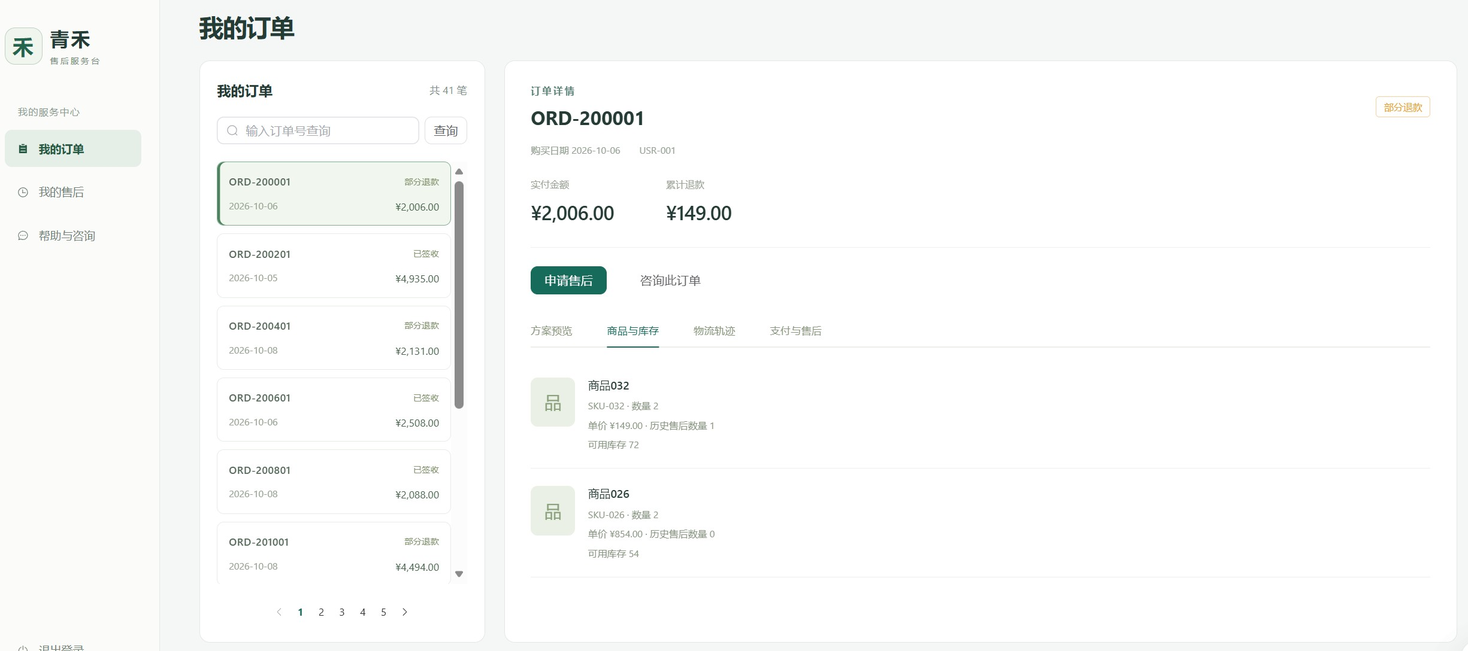
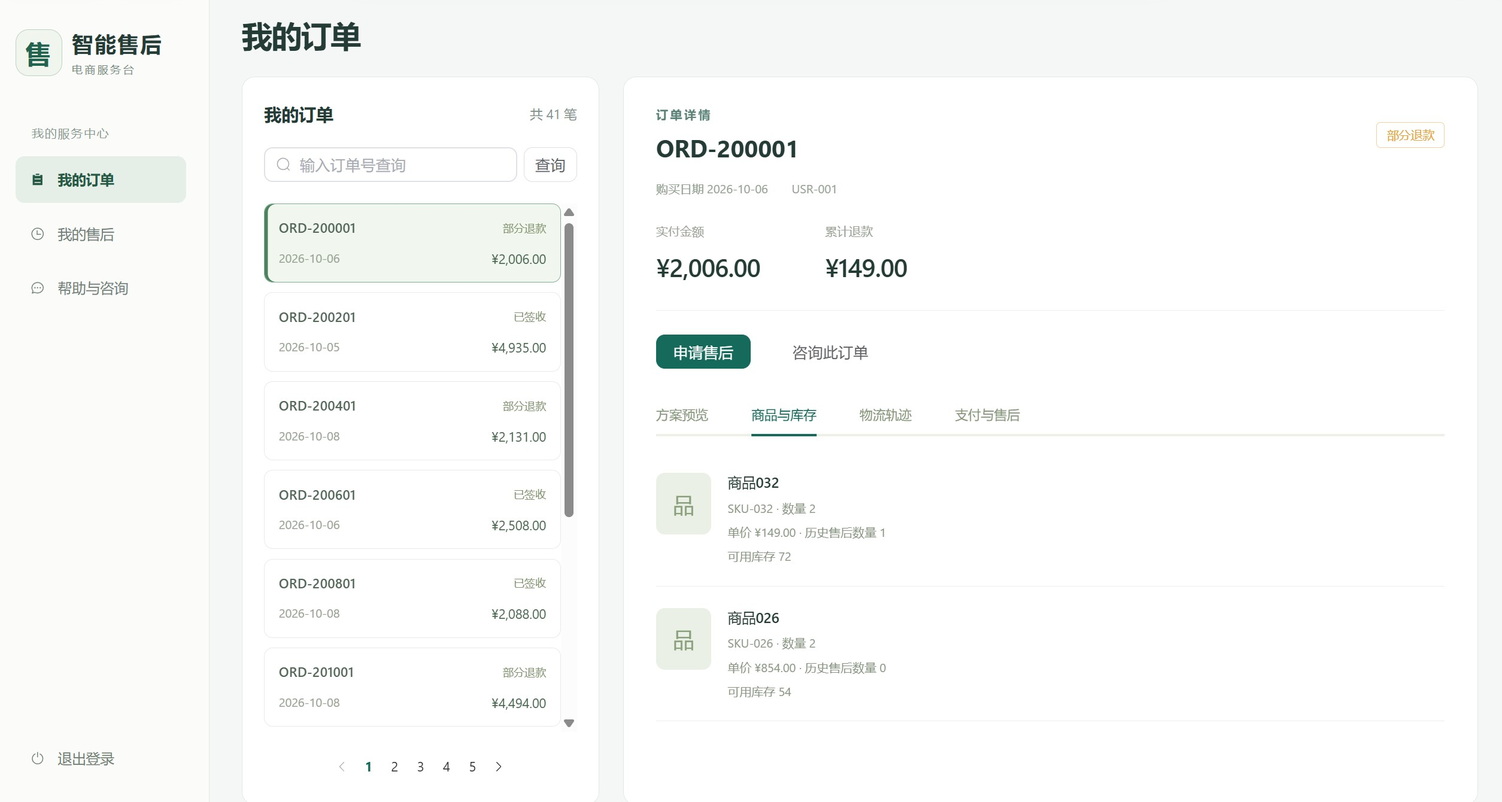
Rename ecommerce AI after-sales service desk and refresh screenshots

diff --git a/frontend/src/style.css b/frontend/src/style.css
@@ -1,4 +1,4 @@
-:root{font-family:"Segoe UI","Microsoft YaHei",sans-serif;color:#243b36;background:#f5f7f6;font-synthesis:none;font-weight:400;--el-color-primary:#176b5b;--el-color-primary-light-3:#58998c;--el-color-primary-light-5:#91beb3;--el-color-primary-light-7:#c1dad3;--el-color-primary-light-9:#edf5f2;--el-color-primary-dark-2:#105346;--el-border-radius-base:8px;--el-font-family:"Segoe UI","Microsoft YaHei",sans-serif}*{box-sizing:border-box}body{margin:0}button,input,textarea{font:inherit}button{cursor:pointer}h1,h2,h3,p{margin:0}h1{font-size:28px;font-weight:650;letter-spacing:-.7px}h2{font-size:28px}h3{font-size:16px;font-weight:650}.muted{color:#82918b}.small{font-size:12px}.eyebrow{font-size:11px;font-weight:600;letter-spacing:2px;color:#5b8277;margin-bottom:9px}.brand{display:flex;align-items:center;gap:12px;font-size:23px;font-weight:650;letter-spacing:2px}.brand-mark{display:grid;place-items:center;width:43px;height:43px;border:1px solid #bed1c5;border-radius:12px;color:#23644f;font-size:24px;background:#f0f5ed}.brand-sub{display:block;letter-spacing:1.8px;font-size:10px;font-weight:400;color:#778d80;margin-top:4px}.login-page{min-height:100vh;display:grid;grid-template-columns:48% 52%}.login-story{padding:54px 65px 30px;background:#184f43;color:#f4f7ed;display:flex;flex-direction:column;position:relative;overflow:hidden}.login-story:after{content:"";position:absolute;width:550px;height:550px;border:1px solid #ffffff12;border-radius:50%;right:-245px;bottom:-245px;box-shadow:0 0 0 70px #ffffff03,0 0 0 140px #ffffff03}.login-story .brand-sub{color:#c3d4bf}.login-story .brand-mark{background:#ffffff10;color:#e8ecd1;border-color:#ffffff40}.story-body{margin:auto 0;z-index:1;padding:70px 0}.story-body h1{font-size:46px;line-height:1.5;letter-spacing:1px;font-weight:500;margin:24px 0}.story-body p{color:#b9cec1;line-height:2.1;font-size:15px}.light{color:#bdcbb1}.story-lines{display:flex;gap:26px;font-size:12px;color:#d8dfc4;margin-top:44px}.story-foot{font-size:11px;color:#a2bba9;letter-spacing:1px}.login-form-area{display:grid;place-items:center;padding:45px;background:#fafbf9}.login-card{width:100%;max-width:360px}.login-card h2{margin-bottom:12px}.login-card>p{font-size:14px;margin-bottom:35px}.login-card label{display:block;font-size:13px;font-weight:600;margin:24px 0 10px}.login-card .el-input__wrapper{height:47px}.login-submit{width:100%;margin:30px 0 27px;height:47px!important;justify-content:space-between}.login-submit .el-icon{margin-left:100px}.login-card .error-text{margin:16px 0 0}.login-card>p.small{font-size:11px;line-height:1.8}.error-text{color:#b9473e}.workspace-shell{display:flex;min-height:100vh}.sidebar{width:200px;flex:none;background:#fbfcfa;border-right:1px solid #e2e9e3;padding:33px 21px;display:flex;flex-direction:column;position:fixed;inset:0 auto 0 0;z-index:10}.sidebar .brand{font-size:22px;gap:9px}.workspace-label{margin:45px 15px 14px;font-size:11px;letter-spacing:1px;color:#8b9b91}.sidebar nav{display:grid;gap:7px}.sidebar nav button,.logout{display:flex;align-items:center;gap:12px;text-align:left;padding:13px 14px;background:none;border:0;color:#708277;font-size:13px;border-radius:8px}.sidebar nav button.active{background:#e6efe7;color:#265a45;font-weight:600}.sidebar nav button:hover{background:#edf2ec}.logout{padding-top:16px;color:#718273}.workspace-main{margin-left:200px;padding:0 30px 20px;flex:1;min-width:0}.topbar{height:75px;border-bottom:1px solid #e3e9e4;display:flex;align-items:center;justify-content:space-between;font-size:12px;color:#809086}.topbar .eyebrow{margin:0;letter-spacing:.7px}.topbar-divider{margin:0 12px;color:#bcc7bc}.identity{display:flex;gap:14px;align-items:center;color:#53685c}.identity-avatar{display:grid;place-items:center;width:33px;height:33px;border-radius:50%;background:#e4ece1;color:#607855;font-size:12px}.page-heading{display:flex;justify-content:space-between;align-items:center;margin:32px 0 26px;gap:15px}.page-heading p{margin-top:12px;font-size:13px;color:#7d8f83;line-height:1.8}.summary-grid{display:grid;grid-template-columns:1fr 1fr 1.45fr;gap:18px;margin-bottom:24px}.summary-card{background:#fff;padding:22px 25px;border:1px solid #e3e9e2;border-radius:12px}.summary-card>span{font-size:12px;color:#819085}.summary-card strong{display:block;font-size:30px;margin:13px 0 9px;font-weight:600;letter-spacing:-1px}.summary-card strong small{font-size:11px;margin-left:7px;color:#829081;font-weight:400;letter-spacing:0}.summary-card p,.summary-card button{font-size:11px;color:#899580}.summary-card button{border:0;background:none;padding:0;display:flex;align-items:center;gap:8px}.summary-card.accent{background:#eaf0e5;border-color:#d9e3d1}.summary-card .text-stat{font-size:19px;letter-spacing:0;margin:23px 0 15px;color:#3f6246}.panel{background:#fff;border:1px solid #e2e9e3;border-radius:12px;min-width:0}.panel-heading{display:flex;align-items:center;justify-content:space-between;gap:12px}.panel-heading p{margin-top:8px}.order-workbench{display:grid;grid-template-columns:330px minmax(0,1fr);gap:22px;min-height:590px}.order-list{padding:23px 20px;display:flex;flex-direction:column;gap:20px}.search-form{display:flex;gap:6px}.search-form .el-button{padding:8px 10px}.order-cards{display:grid;gap:9px;max-height:488px;overflow:auto}.order-card{border:1px solid #e7ece7;background:#fff;border-radius:8px;text-align:left;padding:14px 13px;color:#526757;width:100%;transition:.15s}.order-card.selected{border-color:#83ac95;background:#f1f6ef;box-shadow:inset 3px 0 #4c825d}.order-card>div{display:flex;align-items:center;justify-content:space-between;gap:6px}.order-card strong{font-size:12px;letter-spacing:.3px;font-weight:600}.order-status{font-size:10px;color:#82936e}.order-card p{font-size:11px;color:#97a292;margin-top:13px;display:flex;justify-content:space-between}.order-card p span{color:#47644d;font-size:12px}.order-card>span{display:block;margin-top:8px}.order-list .el-pagination{justify-content:center;margin-top:auto}.detail-panel{padding:27px 30px}.detail-panel h3{font-size:22px}.order-meta{display:flex;gap:22px;font-size:11px;color:#95a193;margin-top:16px;flex-wrap:wrap}.amount-row{display:flex;gap:60px;padding:25px 0;border-bottom:1px solid #edf0eb;margin-bottom:20px}.amount-row span{display:block;font-size:11px;color:#9ba496;margin-bottom:10px}.amount-row strong{font-size:23px;font-weight:500;letter-spacing:-.5px}.consult-button{margin-bottom:18px}.product-row{display:flex;gap:15px;padding:20px 0;border-bottom:1px solid #edf0ea}.product-avatar{width:51px;height:57px;background:#eaf0e6;border-radius:8px;display:grid;place-items:center;color:#8aa07b;font-size:20px;flex:none}.product-info{display:grid;gap:8px}.product-info strong{font-size:13px;font-weight:500}.product-info span{font-size:11px;color:#899681}.logistics-info{display:grid;gap:10px;font-size:12px;margin:20px 0 30px;color:#809276}.record-row{display:grid;gap:10px;padding:17px 0;font-size:12px;border-bottom:1px solid #edf0ea}.record-row strong{font-weight:500}.record-row span{font-size:11px;color:#8a9982}.workspace-footer{display:flex;justify-content:space-between;color:#a3aea0;font-size:10px;margin:25px 0 0}.chat-workbench{display:grid;grid-template-columns:230px minmax(360px,1fr) 310px;gap:17px;align-items:stretch;min-height:650px}.thread-list{padding:22px 15px;max-height:760px;overflow:auto}.new-consult{width:100%;margin:23px 0 18px;font-size:11px}.thread-card{display:block;width:100%;padding:17px 13px;text-align:left;background:transparent;border:0;border-bottom:1px solid #edf0e9;border-radius:7px;color:#5f755a}.thread-card.selected{background:#edf3e9}.thread-card strong{font-size:12px;font-weight:600}.thread-card p{font-size:10px;color:#879b7c;margin:9px 0;line-height:1.8}.thread-card>span{font-size:10px;color:#a0ad97}.chat-workbench>.detail-panel{padding:23px 20px}.chat-workbench .amount-row{gap:24px}.chat-workbench .amount-row strong{font-size:18px}.chat-workbench .order-meta{gap:8px}.chat-workbench .el-tabs__item{font-size:11px;padding:0 10px}.chat-panel{display:flex;flex-direction:column;height:760px;overflow:hidden}.chat-heading{display:flex;align-items:center;justify-content:space-between;padding:24px 23px 19px}.chat-heading h3{font-size:15px}.chat-boundary{padding:12px 23px;background:#f5f7ef;color:#91a080;font-size:10px;line-height:1.8;border-top:1px solid #edf0e5;border-bottom:1px solid #edf0e5}.message-list{overflow:auto;flex:1;padding:24px 22px;min-height:180px}.chat-welcome{text-align:center;padding:35px 0;color:#708365}.assistant-avatar{display:inline-grid;place-items:center;width:47px;height:47px;background:#eaf1e3;color:#66805a;border-radius:15px;font-size:24px;margin-bottom:25px}.chat-welcome h3{font-size:16px;margin-bottom:15px}.chat-welcome p{font-size:12px;color:#9aac91;line-height:2}.suggestion{padding:11px 14px;background:#f7f9f3;border:1px solid #e5ecdd;color:#6d865a;border-radius:7px;margin-top:26px;font-size:11px}.message{display:flex;gap:11px;margin-bottom:25px}.message-avatar{display:grid;place-items:center;width:28px;height:28px;background:#eaf0e3;color:#728665;border-radius:8px;font-size:12px;flex:none}.message.user .message-avatar{background:#e5edf0;color:#647e87}.message-body{flex:1;min-width:0}.message-name{display:flex;gap:14px;align-items:center;font-size:11px;color:#718369;margin-bottom:8px}.message-name span{font-size:9px;color:#adb6a7}.message-content{white-space:pre-wrap;overflow-wrap:anywhere;line-height:1.9;font-size:13px;background:#f5f7f2;padding:14px 16px;border-radius:0 9px 9px 9px}.message.user .message-content{background:#edf3ee}.interrupted{display:block;font-size:10px;color:#b47c57;margin-top:7px}.chat-status{padding:9px 23px;display:flex;justify-content:space-between;align-items:center;color:#8b9d7c;font-size:10px;gap:8px}.status-dot{display:inline-block;width:5px;height:5px;border-radius:50%;background:#8ba67b;margin-right:6px}.status-dot.busy{background:#caaf68;animation:pulse 1s infinite}.composer{margin:0 20px 20px;border:1px solid #dce7d4;border-radius:10px;padding:5px 10px 10px}.composer .el-textarea__inner{box-shadow:none!important;padding:10px 5px;font-size:12px;background:transparent}.composer-footer{display:flex;align-items:center;justify-content:space-between;gap:8px;margin-top:8px}.composer-footer>span{font-size:9px;color:#a4b398}.composer-footer .el-button{font-size:11px}.chat-error{margin:0 22px 10px;padding:10px;background:#fff4ec;font-size:11px;color:#ad7051;line-height:1.7}.choose-chat{grid-column:span 2;display:grid;place-items:center}.inventory-panel{padding:28px}.inventory-panel .panel-heading{margin-bottom:25px}.page-error{margin-bottom:20px;padding:15px;background:#fff3ed;color:#b07953;border-radius:8px;font-size:12px}.empty-state{padding:30px}.el-tag{font-size:11px}.el-tabs__item{font-size:12px;color:#87967b}.el-tabs__nav-wrap:after{background:#edf0e6}.el-button{font-weight:400}.el-table{font-size:12px;color:#71826a}@keyframes pulse{50%{opacity:.35}}@media(min-width:1600px){.workspace-main{padding:0 45px 25px}.chat-workbench{grid-template-columns:260px minmax(420px,1fr) 380px}}@media(max-width:1350px){.chat-workbench{grid-template-columns:210px minmax(330px,1fr)}.chat-workbench>.detail-panel{grid-column:2}.chat-panel{height:690px}.choose-chat{grid-column:2}.sidebar{width:180px;padding:30px 16px}.workspace-main{margin-left:180px;padding:0 23px 20px}.order-workbench{grid-template-columns:290px 1fr}.summary-card{padding:20px}.story-body h1{font-size:36px}}@media(max-width:950px){.order-workbench{grid-template-columns:1fr}.summary-grid{grid-template-columns:1fr 1fr}.summary-card.accent{grid-column:span 2}.order-cards{max-height:270px}.page-heading{align-items:flex-start;flex-direction:column}.login-story{padding:40px 35px}.story-lines{flex-direction:column;gap:15px}.chat-workbench{grid-template-columns:1fr}.chat-workbench>.detail-panel,.choose-chat{grid-column:1}.thread-list{max-height:260px}.chat-panel{height:700px}.login-form-area{padding:35px}}@media(max-width:650px){.sidebar{position:static;width:100%;padding:15px;border-right:0;border-bottom:1px solid #e4eade}.sidebar .brand{font-size:17px}.sidebar .brand-mark{height:30px;width:30px;font-size:18px}.workspace-shell{display:block}.sidebar nav{display:flex;margin-top:18px;gap:4px;overflow:auto}.sidebar nav button{white-space:nowrap;padding:9px 11px;gap:6px;font-size:11px}.workspace-main{margin:0;padding:0 15px 20px}.topbar{height:57px}.topbar>div:first-child{display:none}.topbar{justify-content:flex-end}.page-heading{margin-top:24px}.page-heading h1{font-size:24px}.summary-grid{gap:10px}.summary-card{padding:17px}.summary-card strong{font-size:25px}.detail-panel{padding:22px}.login-page{display:block}.login-story{padding:23px 28px;min-height:280px}.story-body{padding:25px 0 0}.story-body h1{font-size:25px;line-height:1.6;margin:12px 0}.story-body p,.story-lines,.story-foot{display:none}.login-form-area{padding:35px 27px}.workspace-footer{font-size:9px}.amount-row{gap:36px}}
+:root{font-family:"Segoe UI","Microsoft YaHei",sans-serif;color:#243b36;background:#f5f7f6;font-synthesis:none;font-weight:400;--el-color-primary:#176b5b;--el-color-primary-light-3:#58998c;--el-color-primary-light-5:#91beb3;--el-color-primary-light-7:#c1dad3;--el-color-primary-light-9:#edf5f2;--el-color-primary-dark-2:#105346;--el-border-radius-base:8px;--el-font-family:"Segoe UI","Microsoft YaHei",sans-serif}*{box-sizing:border-box}body{margin:0}button,input,textarea{font:inherit}button{cursor:pointer}h1,h2,h3,p{margin:0}h1{font-size:28px;font-weight:650;letter-spacing:-.7px}h2{font-size:28px}h3{font-size:16px;font-weight:650}.muted{color:#82918b}.small{font-size:12px}.eyebrow{font-size:11px;font-weight:600;letter-spacing:2px;color:#5b8277;margin-bottom:9px}.brand{display:flex;align-items:center;gap:12px;font-size:23px;font-weight:650;letter-spacing:2px}.brand-mark{display:grid;place-items:center;width:43px;height:43px;border:1px solid #bed1c5;border-radius:12px;color:#23644f;font-size:24px;background:#f0f5ed}.brand-sub{display:block;letter-spacing:1.8px;font-size:10px;font-weight:400;color:#778d80;margin-top:4px}.login-page{min-height:100vh;display:grid;grid-template-columns:48% 52%}.login-story{padding:54px 65px 30px;background:#184f43;color:#f4f7ed;display:flex;flex-direction:column;position:relative;overflow:hidden}.login-story:after{content:"";position:absolute;width:550px;height:550px;border:1px solid #ffffff12;border-radius:50%;right:-245px;bottom:-245px;box-shadow:0 0 0 70px #ffffff03,0 0 0 140px #ffffff03}.login-story .brand-sub{color:#c3d4bf}.login-story .brand-mark{background:#ffffff10;color:#e8ecd1;border-color:#ffffff40}.story-body{margin:auto 0;z-index:1;padding:70px 0}.story-body h1{font-size:46px;line-height:1.5;letter-spacing:1px;font-weight:500;margin:24px 0}.story-body p{color:#b9cec1;line-height:2.1;font-size:15px}.light{color:#bdcbb1}.story-lines{display:flex;gap:26px;font-size:12px;color:#d8dfc4;margin-top:44px}.story-foot{font-size:11px;color:#a2bba9;letter-spacing:1px}.login-form-area{display:grid;place-items:center;padding:45px;background:#fafbf9}.login-card{width:100%;max-width:360px}.login-card h2{margin-bottom:12px}.login-card>p{font-size:14px;margin-bottom:35px}.login-card label{display:block;font-size:13px;font-weight:600;margin:24px 0 10px}.login-card .el-input__wrapper{height:47px}.login-submit{width:100%;margin:30px 0 27px;height:47px!important;justify-content:space-between}.login-submit .el-icon{margin-left:100px}.login-card .error-text{margin:16px 0 0}.login-card>p.small{font-size:11px;line-height:1.8}.error-text{color:#b9473e}.workspace-shell{display:flex;min-height:100vh}.sidebar{width:200px;flex:none;background:#fbfcfa;border-right:1px solid #e2e9e3;padding:33px 21px;display:flex;flex-direction:column;position:fixed;inset:0 auto 0 0;z-index:10}.sidebar .brand{font-size:20px;gap:9px;letter-spacing:1px}.workspace-label{margin:45px 15px 14px;font-size:11px;letter-spacing:1px;color:#8b9b91}.sidebar nav{display:grid;gap:7px}.sidebar nav button,.logout{display:flex;align-items:center;gap:12px;text-align:left;padding:13px 14px;background:none;border:0;color:#708277;font-size:13px;border-radius:8px}.sidebar nav button.active{background:#e6efe7;color:#265a45;font-weight:600}.sidebar nav button:hover{background:#edf2ec}.logout{padding-top:16px;color:#718273}.workspace-main{margin-left:200px;padding:0 30px 20px;flex:1;min-width:0}.topbar{height:75px;border-bottom:1px solid #e3e9e4;display:flex;align-items:center;justify-content:space-between;font-size:12px;color:#809086}.topbar .eyebrow{margin:0;letter-spacing:.7px}.topbar-divider{margin:0 12px;color:#bcc7bc}.identity{display:flex;gap:14px;align-items:center;color:#53685c}.identity-avatar{display:grid;place-items:center;width:33px;height:33px;border-radius:50%;background:#e4ece1;color:#607855;font-size:12px}.page-heading{display:flex;justify-content:space-between;align-items:center;margin:32px 0 26px;gap:15px}.page-heading p{margin-top:12px;font-size:13px;color:#7d8f83;line-height:1.8}.summary-grid{display:grid;grid-template-columns:1fr 1fr 1.45fr;gap:18px;margin-bottom:24px}.summary-card{background:#fff;padding:22px 25px;border:1px solid #e3e9e2;border-radius:12px}.summary-card>span{font-size:12px;color:#819085}.summary-card strong{display:block;font-size:30px;margin:13px 0 9px;font-weight:600;letter-spacing:-1px}.summary-card strong small{font-size:11px;margin-left:7px;color:#829081;font-weight:400;letter-spacing:0}.summary-card p,.summary-card button{font-size:11px;color:#899580}.summary-card button{border:0;background:none;padding:0;display:flex;align-items:center;gap:8px}.summary-card.accent{background:#eaf0e5;border-color:#d9e3d1}.summary-card .text-stat{font-size:19px;letter-spacing:0;margin:23px 0 15px;color:#3f6246}.panel{background:#fff;border:1px solid #e2e9e3;border-radius:12px;min-width:0}.panel-heading{display:flex;align-items:center;justify-content:space-between;gap:12px}.panel-heading p{margin-top:8px}.order-workbench{display:grid;grid-template-columns:330px minmax(0,1fr);gap:22px;min-height:590px}.order-list{padding:23px 20px;display:flex;flex-direction:column;gap:20px}.search-form{display:flex;gap:6px}.search-form .el-button{padding:8px 10px}.order-cards{display:grid;gap:9px;max-height:488px;overflow:auto}.order-card{border:1px solid #e7ece7;background:#fff;border-radius:8px;text-align:left;padding:14px 13px;color:#526757;width:100%;transition:.15s}.order-card.selected{border-color:#83ac95;background:#f1f6ef;box-shadow:inset 3px 0 #4c825d}.order-card>div{display:flex;align-items:center;justify-content:space-between;gap:6px}.order-card strong{font-size:12px;letter-spacing:.3px;font-weight:600}.order-status{font-size:10px;color:#82936e}.order-card p{font-size:11px;color:#97a292;margin-top:13px;display:flex;justify-content:space-between}.order-card p span{color:#47644d;font-size:12px}.order-card>span{display:block;margin-top:8px}.order-list .el-pagination{justify-content:center;margin-top:auto}.detail-panel{padding:27px 30px}.detail-panel h3{font-size:22px}.order-meta{display:flex;gap:22px;font-size:11px;color:#95a193;margin-top:16px;flex-wrap:wrap}.amount-row{display:flex;gap:60px;padding:25px 0;border-bottom:1px solid #edf0eb;margin-bottom:20px}.amount-row span{display:block;font-size:11px;color:#9ba496;margin-bottom:10px}.amount-row strong{font-size:23px;font-weight:500;letter-spacing:-.5px}.consult-button{margin-bottom:18px}.product-row{display:flex;gap:15px;padding:20px 0;border-bottom:1px solid #edf0ea}.product-avatar{width:51px;height:57px;background:#eaf0e6;border-radius:8px;display:grid;place-items:center;color:#8aa07b;font-size:20px;flex:none}.product-info{display:grid;gap:8px}.product-info strong{font-size:13px;font-weight:500}.product-info span{font-size:11px;color:#899681}.logistics-info{display:grid;gap:10px;font-size:12px;margin:20px 0 30px;color:#809276}.record-row{display:grid;gap:10px;padding:17px 0;font-size:12px;border-bottom:1px solid #edf0ea}.record-row strong{font-weight:500}.record-row span{font-size:11px;color:#8a9982}.workspace-footer{display:flex;justify-content:space-between;color:#a3aea0;font-size:10px;margin:25px 0 0}.chat-workbench{display:grid;grid-template-columns:230px minmax(360px,1fr) 310px;gap:17px;align-items:stretch;min-height:650px}.thread-list{padding:22px 15px;max-height:760px;overflow:auto}.new-consult{width:100%;margin:23px 0 18px;font-size:11px}.thread-card{display:block;width:100%;padding:17px 13px;text-align:left;background:transparent;border:0;border-bottom:1px solid #edf0e9;border-radius:7px;color:#5f755a}.thread-card.selected{background:#edf3e9}.thread-card strong{font-size:12px;font-weight:600}.thread-card p{font-size:10px;color:#879b7c;margin:9px 0;line-height:1.8}.thread-card>span{font-size:10px;color:#a0ad97}.chat-workbench>.detail-panel{padding:23px 20px}.chat-workbench .amount-row{gap:24px}.chat-workbench .amount-row strong{font-size:18px}.chat-workbench .order-meta{gap:8px}.chat-workbench .el-tabs__item{font-size:11px;padding:0 10px}.chat-panel{display:flex;flex-direction:column;height:760px;overflow:hidden}.chat-heading{display:flex;align-items:center;justify-content:space-between;padding:24px 23px 19px}.chat-heading h3{font-size:15px}.chat-boundary{padding:12px 23px;background:#f5f7ef;color:#91a080;font-size:10px;line-height:1.8;border-top:1px solid #edf0e5;border-bottom:1px solid #edf0e5}.message-list{overflow:auto;flex:1;padding:24px 22px;min-height:180px}.chat-welcome{text-align:center;padding:35px 0;color:#708365}.assistant-avatar{display:inline-grid;place-items:center;width:47px;height:47px;background:#eaf1e3;color:#66805a;border-radius:15px;font-size:24px;margin-bottom:25px}.chat-welcome h3{font-size:16px;margin-bottom:15px}.chat-welcome p{font-size:12px;color:#9aac91;line-height:2}.suggestion{padding:11px 14px;background:#f7f9f3;border:1px solid #e5ecdd;color:#6d865a;border-radius:7px;margin-top:26px;font-size:11px}.message{display:flex;gap:11px;margin-bottom:25px}.message-avatar{display:grid;place-items:center;width:28px;height:28px;background:#eaf0e3;color:#728665;border-radius:8px;font-size:12px;flex:none}.message.user .message-avatar{background:#e5edf0;color:#647e87}.message-body{flex:1;min-width:0}.message-name{display:flex;gap:14px;align-items:center;font-size:11px;color:#718369;margin-bottom:8px}.message-name span{font-size:9px;color:#adb6a7}.message-content{white-space:pre-wrap;overflow-wrap:anywhere;line-height:1.9;font-size:13px;background:#f5f7f2;padding:14px 16px;border-radius:0 9px 9px 9px}.message.user .message-content{background:#edf3ee}.interrupted{display:block;font-size:10px;color:#b47c57;margin-top:7px}.chat-status{padding:9px 23px;display:flex;justify-content:space-between;align-items:center;color:#8b9d7c;font-size:10px;gap:8px}.status-dot{display:inline-block;width:5px;height:5px;border-radius:50%;background:#8ba67b;margin-right:6px}.status-dot.busy{background:#caaf68;animation:pulse 1s infinite}.composer{margin:0 20px 20px;border:1px solid #dce7d4;border-radius:10px;padding:5px 10px 10px}.composer .el-textarea__inner{box-shadow:none!important;padding:10px 5px;font-size:12px;background:transparent}.composer-footer{display:flex;align-items:center;justify-content:space-between;gap:8px;margin-top:8px}.composer-footer>span{font-size:9px;color:#a4b398}.composer-footer .el-button{font-size:11px}.chat-error{margin:0 22px 10px;padding:10px;background:#fff4ec;font-size:11px;color:#ad7051;line-height:1.7}.choose-chat{grid-column:span 2;display:grid;place-items:center}.inventory-panel{padding:28px}.inventory-panel .panel-heading{margin-bottom:25px}.page-error{margin-bottom:20px;padding:15px;background:#fff3ed;color:#b07953;border-radius:8px;font-size:12px}.empty-state{padding:30px}.el-tag{font-size:11px}.el-tabs__item{font-size:12px;color:#87967b}.el-tabs__nav-wrap:after{background:#edf0e6}.el-button{font-weight:400}.el-table{font-size:12px;color:#71826a}@keyframes pulse{50%{opacity:.35}}@media(min-width:1600px){.workspace-main{padding:0 45px 25px}.chat-workbench{grid-template-columns:260px minmax(420px,1fr) 380px}}@media(max-width:1350px){.chat-workbench{grid-template-columns:210px minmax(330px,1fr)}.chat-workbench>.detail-panel{grid-column:2}.chat-panel{height:690px}.choose-chat{grid-column:2}.sidebar{width:180px;padding:30px 16px}.workspace-main{margin-left:180px;padding:0 23px 20px}.order-workbench{grid-template-columns:290px 1fr}.summary-card{padding:20px}.story-body h1{font-size:36px}}@media(max-width:950px){.order-workbench{grid-template-columns:1fr}.summary-grid{grid-template-columns:1fr 1fr}.summary-card.accent{grid-column:span 2}.order-cards{max-height:270px}.page-heading{align-items:flex-start;flex-direction:column}.login-story{padding:40px 35px}.story-lines{flex-direction:column;gap:15px}.chat-workbench{grid-template-columns:1fr}.chat-workbench>.detail-panel,.choose-chat{grid-column:1}.thread-list{max-height:260px}.chat-panel{height:700px}.login-form-area{padding:35px}}@media(max-width:650px){.sidebar{position:static;width:100%;padding:15px;border-right:0;border-bottom:1px solid #e4eade}.sidebar .brand{font-size:17px}.sidebar .brand-mark{height:30px;width:30px;font-size:18px}.workspace-shell{display:block}.sidebar nav{display:flex;margin-top:18px;gap:4px;overflow:auto}.sidebar nav button{white-space:nowrap;padding:9px 11px;gap:6px;font-size:11px}.workspace-main{margin:0;padding:0 15px 20px}.topbar{height:57px}.topbar>div:first-child{display:none}.topbar{justify-content:flex-end}.page-heading{margin-top:24px}.page-heading h1{font-size:24px}.summary-grid{gap:10px}.summary-card{padding:17px}.summary-card strong{font-size:25px}.detail-panel{padding:22px}.login-page{display:block}.login-story{padding:23px 28px;min-height:280px}.story-body{padding:25px 0 0}.story-body h1{font-size:25px;line-height:1.6;margin:12px 0}.story-body p,.story-lines,.story-foot{display:none}.login-form-area{padding:35px 27px}.workspace-footer{font-size:9px}.amount-row{gap:36px}}
 
 @media(max-width:650px){.sidebar{position:relative}.sidebar .logout{display:flex;position:absolute;right:12px;top:17px;padding:8px;font-size:11px}}
 

diff --git a/frontend/src/views/Workspace.vue b/frontend/src/views/Workspace.vue
@@ -90,7 +90,7 @@ onMounted(async () => {
 </script>
 <template>
   <div class="workspace-shell">
-    <aside class="sidebar"><div class="brand"><span class="brand-mark">禾</span><span>青禾<span class="brand-sub">售后服务台</span></span></div><div class="workspace-label">{{ staff ? '客服工作台' : '我的服务中心' }}</div><nav><button :class="{ active: tab === 'orders' }" @click="navigate('orders')"><el-icon><List /></el-icon>{{ staff ? '全部订单' : '我的订单' }}</button><button :class="{ active: tab === 'applications' }" @click="navigate('applications')"><el-icon><Clock /></el-icon>{{ staff ? '售后审批' : '我的售后' }}</button><button :class="{ active: tab === 'chat' }" @click="navigate('chat')"><el-icon><ChatDotRound /></el-icon>{{ staff ? '咨询记录' : '帮助与咨询' }}</button><button v-if="staff" :class="{ active: tab === 'inventory' }" @click="navigate('inventory')"><el-icon><Box /></el-icon>库存查询</button><button v-if="staff" :class="{ active: tab === 'operations' }" @click="navigate('operations')"><el-icon><Clock /></el-icon>任务与异常</button><button v-if="staff" :class="{ active: tab === 'support' }" @click="navigate('support')">人工咨询</button><button v-if="staff" :class="{ active: tab === 'policies' }" @click="navigate('policies')">售后政策</button></nav><button class="logout" @click="logout"><el-icon><SwitchButton /></el-icon>退出登录</button></aside>
+    <aside class="sidebar"><div class="brand"><span class="brand-mark">售</span><span>智能售后<span class="brand-sub">电商服务台</span></span></div><div class="workspace-label">{{ staff ? '客服工作台' : '我的服务中心' }}</div><nav><button :class="{ active: tab === 'orders' }" @click="navigate('orders')"><el-icon><List /></el-icon>{{ staff ? '全部订单' : '我的订单' }}</button><button :class="{ active: tab === 'applications' }" @click="navigate('applications')"><el-icon><Clock /></el-icon>{{ staff ? '售后审批' : '我的售后' }}</button><button :class="{ active: tab === 'chat' }" @click="navigate('chat')"><el-icon><ChatDotRound /></el-icon>{{ staff ? '咨询记录' : '帮助与咨询' }}</button><button v-if="staff" :class="{ active: tab === 'inventory' }" @click="navigate('inventory')"><el-icon><Box /></el-icon>库存查询</button><button v-if="staff" :class="{ active: tab === 'operations' }" @click="navigate('operations')"><el-icon><Clock /></el-icon>任务与异常</button><button v-if="staff" :class="{ active: tab === 'support' }" @click="navigate('support')">人工咨询</button><button v-if="staff" :class="{ active: tab === 'policies' }" @click="navigate('policies')">售后政策</button></nav><button class="logout" @click="logout"><el-icon><SwitchButton /></el-icon>退出登录</button></aside>
     <main class="workspace-main"><header class="topbar"><div><span class="eyebrow">{{ staff ? '客服工作台' : '用户服务中心' }}</span><span class="topbar-divider">/</span><span>{{ { orders: '订单', chat: '咨询', inventory: '库存', applications: staff ? '售后审批' : '我的售后', operations: '任务与异常', support: '人工咨询', policies: '售后政策' }[tab] || '订单' }}</span></div><div class="identity"><NoticePanel v-if="!staff" /><AccountPanel /><el-tag effect="plain" size="small">{{ staff ? '客服' : '用户' }}</el-tag><span>{{ actorName(identity.actor?.display_name || '', identity.actor?.id) }}</span><span class="identity-avatar">{{ staff ? '服' : '我' }}</span></div></header>
       <section class="page-heading"><h1>{{ title }}</h1></section><ServiceInbox v-if="staff" />
       <div v-if="error" class="page-error" role="alert">{{ error }} <el-button text @click="loadOrders">重试</el-button></div>
@@ -100,7 +100,7 @@ onMounted(async () => {
       </template>
       <div v-else-if="tab === 'chat'" class="chat-workbench"><section class="panel thread-list"><div class="panel-heading"><h3>咨询记录</h3><span class="muted small">{{ threadTotal }} 次</span></div><el-button class="new-consult" plain type="primary" @click="navigate('orders')">＋ 选择订单，新建咨询</el-button><p v-if="threadError" class="error-text" role="alert">{{ threadError }} <el-button text @click="loadThreads">重试加载咨询</el-button></p><button v-for="thread in threads" :key="thread.id" class="thread-card" :class="{ selected: threadId === thread.id }" @click="router.replace({ query: { tab: 'chat', thread: thread.id } })"><strong>{{ thread.order_id }}</strong><p>{{ thread.title }}</p><span>{{ new Date(thread.updated_at).toLocaleString('zh-CN', { month: '2-digit', day: '2-digit', hour: '2-digit', minute: '2-digit' }) }}</span></button><el-empty v-if="!threads.length && !threadError" description="还没有咨询记录。选择订单后可发起咨询" :image-size="60" /><el-pagination v-if="threadTotal > 30" v-model:current-page="threadPage" :page-size="30" :total="threadTotal" layout="prev, next" small @current-change="loadThreads" /></section><template v-if="threadId"><ChatPanel :thread-id="threadId" @loaded="selected = $event" @updated="loadThreads" /></template><section v-else class="panel choose-chat"><div class="help-steps"><h3>如何办理售后</h3><p>1. 在我的订单中选择订单，点击申请售后。</p><p>2. 选择类型，填写原因、数量及问题材料。</p><p>3. 核对方案后提交，在我的售后查看处理进度。</p><details><summary>没有订单怎么办？</summary><p>请确认登录的是购买时使用的账号。新注册账号尚无订单，需要业务方关联订单后才能办理售后。</p></details></div><el-empty description="需要办理售后：先选择订单，再点击申请售后。需要帮助：选择订单发起咨询，也可以转人工。" :image-size="100" /></section></div>
       <SupportDesk v-else-if="tab === 'support' && staff" /><PolicyPanel v-else-if="tab === 'policies' && staff" /><OperationsPanel v-else-if="tab === 'operations' && staff" /><ApplicationPanel v-else-if="tab === 'applications'" /><section v-else-if="tab === 'inventory' && staff" class="panel inventory-panel" v-loading="inventoryLoading"><div class="panel-heading"><div><h3>完整库存</h3><p class="muted small">共 {{ inventories.length }} 个 SKU · 只读查询</p></div><el-input v-model="inventorySearch" placeholder="搜索 SKU" :prefix-icon="Search" style="width:220px" aria-label="搜索 SKU" /></div><p v-if="inventoryError" class="error-text" role="alert">{{ inventoryError }} <el-button text @click="loadInventory">重试加载库存</el-button></p><el-table v-if="!inventoryError" :data="filteredInventory" stripe><el-table-column prop="sku_id" label="SKU 编号" /><el-table-column prop="on_hand" label="现有库存" /><el-table-column prop="reserved" label="已预留" /><el-table-column label="可用库存"><template #default="{ row }"><el-tag :type="row.available === 0 ? 'danger' : 'success'" effect="plain">{{ row.available }}</el-tag></template></el-table-column></el-table><el-empty v-if="!filteredInventory.length && !inventoryError && !inventoryLoading" description="没有匹配的库存记录" :image-size="60" /></section>
-      <footer class="workspace-footer"><span>青禾售后服务台</span><span>订单查询 · 售后申请 · 进度跟踪</span></footer>
+      <footer class="workspace-footer"><span>电商智能售后服务台</span><span>订单查询 · 售后申请 · 进度跟踪</span></footer>
     </main>
   </div>
 </template>

diff --git a/frontend/src/components/ChatPanel.vue b/frontend/src/components/ChatPanel.vue
@@ -131,11 +131,11 @@ onUnmounted(() => { generation++; closeStream(); clearInterval(supportTimer) })
 </script>
 <template>
   <section class="panel chat-panel" v-loading="loading">
-    <div class="chat-heading"><h3>{{ human ? (support.session?.state === 'queued' ? '等待人工客服接单' : '人工客服处理中') : '售后助手' }}</h3><el-button v-if="!staff && !human" :disabled="busy" @click="supportAction('request')">转人工</el-button><el-button v-if="staff && support.session?.state === 'queued'" @click="supportAction('claim')">接单</el-button><el-button v-if="staff && human && canHumanReply" @click="supportAction('close')">结束服务</el-button></div>
-    <div class="chat-boundary">{{ human ? '已转人工，售后助手暂停回复。可以继续补充问题，客服上线后回复。' : support.session?.state === 'closed' ? '人工服务已结束，可以继续咨询；人工沟通记录将作为咨询背景。' : '描述问题获取帮助。办理售后请从订单提交申请，由客服审核。' }}</div>
+    <div class="chat-heading"><h3>{{ human ? (support.session?.state === 'queued' ? '等待人工客服接单' : '人工客服处理中') : '智能售后助手' }}</h3><el-button v-if="!staff && !human" :disabled="busy" @click="supportAction('request')">转人工</el-button><el-button v-if="staff && support.session?.state === 'queued'" @click="supportAction('claim')">接单</el-button><el-button v-if="staff && human && canHumanReply" @click="supportAction('close')">结束服务</el-button></div>
+    <div class="chat-boundary">{{ human ? '已转人工，智能售后助手暂停回复。可以继续补充问题，客服上线后回复。' : support.session?.state === 'closed' ? '人工服务已结束，可以继续咨询；人工沟通记录将作为咨询背景。' : '描述问题获取帮助。办理售后请从订单提交申请，由客服审核。' }}</div>
     <div ref="scrollbox" class="message-list" aria-live="polite">
-      <div v-if="!messages.length" class="chat-welcome"><span class="assistant-avatar">禾</span><h3>你好，有什么需要帮忙？</h3><p>这次咨询已关联选定订单。<br>可以询问订单情况，也可以描述退款、换货、补发或维修申请。</p><button class="suggestion" @click="draft = '请查询这个订单，说明订单状态、商品明细和历史退款。'">查询这笔订单的情况 →</button></div>
-      <article v-for="message in timeline" :key="message.key" class="message" :class="message.role === 'user' ? 'user' : 'assistant'"><span class="message-avatar">{{ message.role === 'user' ? '我' : message.role === 'staff' ? '服' : '禾' }}</span><div class="message-body"><div class="message-name">{{ message.role === 'user' ? '用户' : message.role === 'staff' ? '人工客服' : '青禾助手' }}<span>{{ new Date(message.created_at).toLocaleTimeString('zh-CN', { hour: '2-digit', minute: '2-digit' }) }}</span></div><p class="message-content">{{ (message.role === 'assistant' ? assistantCopy(message.content) : message.content) || (message.status === 'partial' ? '正在准备回复…' : '本次未获得回复') }}</p><PreviewCard v-if="message.preview" :preview="message.preview" /><span v-if="message.status === 'failed'" class="interrupted">回复中断 · 已保留收到的内容</span></div></article>
+      <div v-if="!messages.length" class="chat-welcome"><span class="assistant-avatar">助</span><h3>你好，有什么需要帮忙？</h3><p>这次咨询已关联选定订单。<br>可以询问订单情况，也可以描述退款、换货、补发或维修申请。</p><button class="suggestion" @click="draft = '请查询这个订单，说明订单状态、商品明细和历史退款。'">查询这笔订单的情况 →</button></div>
+      <article v-for="message in timeline" :key="message.key" class="message" :class="message.role === 'user' ? 'user' : 'assistant'"><span class="message-avatar">{{ message.role === 'user' ? '我' : message.role === 'staff' ? '服' : '助' }}</span><div class="message-body"><div class="message-name">{{ message.role === 'user' ? '用户' : message.role === 'staff' ? '人工客服' : '智能售后助手' }}<span>{{ new Date(message.created_at).toLocaleTimeString('zh-CN', { hour: '2-digit', minute: '2-digit' }) }}</span></div><p class="message-content">{{ (message.role === 'assistant' ? assistantCopy(message.content) : message.content) || (message.status === 'partial' ? '正在准备回复…' : '本次未获得回复') }}</p><PreviewCard v-if="message.preview" :preview="message.preview" /><span v-if="message.status === 'failed'" class="interrupted">回复中断 · 已保留收到的内容</span></div></article>
     </div>
     <div class="chat-status"><span><i class="status-dot" :class="{ busy }"></i>{{ human ? (support.session?.state === 'queued' ? '等待接单' : '人工服务中') : phase }}</span><span v-if="connection" role="status">{{ connection }}</span><el-button v-if="!busy" text size="small" :icon="Refresh" @click="refresh().catch(e => error = e.message)">刷新记录</el-button></div>
     <p v-if="error" class="chat-error" role="alert">{{ serviceError(error) }}</p>

diff --git a/frontend/src/views/Login.vue b/frontend/src/views/Login.vue
@@ -53,9 +53,9 @@ async function login() {
 <template>
   <main class="login-page">
     <section class="login-story">
-      <div class="brand"><span class="brand-mark">禾</span><span>青禾<span class="brand-sub">售后服务台</span></span></div>
+      <div class="brand"><span class="brand-mark">售</span><span>智能售后<span class="brand-sub">电商服务台</span></span></div>
       <div class="story-body"><div class="eyebrow light">每一份信任，都有回应</div><h1>让售后咨询<br>简单、清晰、安心。</h1><p>从一笔订单开始，了解商品、支付与物流。<br>让每一次沟通，都有可追溯的记录。</p><div class="story-lines"><span>01　核验订单</span><span>02　沟通问题</span><span>03　保留记录</span></div></div>
-      <p class="story-foot">青禾售后服务台</p>
+      <p class="story-foot">电商智能售后服务台</p>
     </section>
     <section class="login-form-area"><form class="login-card" @submit.prevent="login">
       <h2>{{ title }}</h2><p class="muted">{{ mode === 'register' ? '设置账号和密码，注册后即可登录' : mode === 'forgot' ? '请联系本机服务台管理员重置密码。登录后也可在账号设置中修改密码。' : '查看订单，办理售后' }}</p>

diff --git a/frontend/index.html b/frontend/index.html
@@ -1,2 +1,2 @@
 <!doctype html>
-<html lang="zh-CN"><head><meta charset="UTF-8"><meta name="viewport" content="width=device-width, initial-scale=1.0"><meta name="theme-color" content="#154f46"><title>青禾 · 售后服务台</title></head><body><div id="app"></div><script type="module" src="/src/main.ts"></script></body></html>
+<html lang="zh-CN"><head><meta charset="UTF-8"><meta name="viewport" content="width=device-width, initial-scale=1.0"><meta name="theme-color" content="#154f46"><title>电商智能售后服务台</title></head><body><div id="app"></div><script type="module" src="/src/main.ts"></script></body></html>

diff --git a/src/commerce/product_api.py b/src/commerce/product_api.py
@@ -83,7 +83,7 @@ async def send_account_mail(email, purpose, token):
     message = EmailMessage()
     message["From"] = config.SMTP_FROM
     message["To"] = email
-    message["Subject"] = "青禾：验证邮箱" if mode == "verify" else "青禾：重置密码"
+    message["Subject"] = "电商智能售后服务台：验证邮箱" if mode == "verify" else "电商智能售后服务台：重置密码"
     message.set_content(
         f"请打开以下链接完成操作。链接有效期为 30 分钟，仅可使用一次。\n{link}\n如果不是本人操作，请忽略。"
     )
@@ -377,7 +377,7 @@ async def close_support(thread_id: UUID, actor: Actor):
         ).fetchone()
         if not row:
             raise HTTPException(409, "请由接单客服结束咨询")
-    return {"message": "人工服务已结束，可以继续使用售后助手"}
+    return {"message": "人工服务已结束，可以继续使用智能售后助手"}
 
 
 class SupportMessage(Input):

diff --git a/src/commerce/sim_business.py b/src/commerce/sim_business.py
@@ -24,7 +24,7 @@ async def internal_auth(request: Request):
         raise HTTPException(403, "业务接口认证失败")
 
 
-app = FastAPI(title="青禾独立模拟业务接口", dependencies=[Depends(internal_auth)])
+app = FastAPI(title="电商智能售后服务台 · 模拟业务接口", dependencies=[Depends(internal_auth)])
 
 
 async def actor(actor_id: str):

diff --git a/src/commerce/config.py b/src/commerce/config.py
@@ -36,7 +36,7 @@ class CommerceSettings(BaseSettings):
     SMTP_PORT: int = 587
     SMTP_USER: str = ''
     SMTP_PASSWORD: SecretStr = SecretStr('')
-    SMTP_FROM: str = 'service@qinghe.local'
+    SMTP_FROM: str = 'service@after-sales.local'
 
     def connection_kwargs(self) -> dict:
         return {

diff --git a/README.md b/README.md
@@ -1,6 +1,6 @@
-# 青禾 · AI 电商售后服务台
+# 电商智能售后服务台
 
-青禾是一套面向用户与客服的电商售后应用，将订单查询、AI 咨询、售后申请、人工审批与业务办理串联在同一个工作台中。支持 **退款、换货、补发、维修** 四类售后场景，用户可以查看申请进度，客服可以核对材料、处理审批和跟踪办理结果。
+本项目是一套面向用户与客服的电商售后应用，将订单查询、AI 咨询、售后申请、人工审批与业务办理串联在同一个工作台中。支持 **退款、换货、补发、维修** 四类售后场景，用户可以查看申请进度，客服可以核对材料、处理审批和跟踪办理结果。
 
 **核心流程：** 查询订单 → 生成售后方案 → 用户确认 → 客服审批 → 提交业务执行 → 查看办理结果。
 
@@ -24,7 +24,7 @@
 
 下图展示主要业务路径，以及补充材料、方案失效和办理异常时的处理分支。
 
-![青禾电商售后项目流程图](figures/after-sales-workflow.png)
+![电商智能售后服务台项目流程图](figures/after-sales-workflow.png)
 
 **流程中的关键约束：**
 
@@ -91,13 +91,13 @@
 安装并启动 Docker Desktop 后，在 PowerShell 执行：
 
 ```powershell
-git clone https://github.com/chen-xinyi111/qinghe-after-sales.git
-cd qinghe-after-sales
+git clone https://github.com/chen-xinyi111/ecommerce-ai-after-sales.git
+cd ecommerce-ai-after-sales
 Set-ExecutionPolicy -Scope Process -ExecutionPolicy RemoteSigned
 .\scripts\local\Docker.ps1 -Action Start
 ```
 
-执行策略设置仅对当前 PowerShell 进程及其子进程有效。首次运行会构建应用并生成本机配置，启动后打开 [青禾工作台](http://127.0.0.1:18080/app/)。
+执行策略设置仅对当前 PowerShell 进程及其子进程有效。首次运行会构建应用并生成本机配置，启动后打开 [智能售后工作台](http://127.0.0.1:18080/app/)。
 
 默认使用离线模拟模型，无需 API Key。演示用户为 `user001`，演示客服为 `staff001`，公共模拟密码为 `Demo-1101!`。这些账号用于模拟数据体验。
 

diff --git a/NOTICE.md b/NOTICE.md
@@ -2,5 +2,5 @@
 
 本项目基于 [JoshuaC215/agent-service-toolkit](https://github.com/JoshuaC215/agent-service-toolkit) 扩展。
 原项目提供 LangGraph、FastAPI、客户端与通用 Agent 服务基础。
-本仓库展示在此基础上实现的青禾电商售后服务台及其 Vue 3 界面、售后业务和模拟系统。
+本仓库展示在此基础上实现的电商智能售后服务台及其 Vue 3 界面、售后业务和模拟系统。
 保留原 MIT 许可证及版权声明，见 [LICENSE](LICENSE)。

diff --git a/figures/after-sales-workflow.md b/figures/after-sales-workflow.md
@@ -1,4 +1,4 @@
-# 青禾电商售后项目流程
+# 电商智能售后服务台项目流程
 
 主要申请、审批与执行路径；咨询按需进入，业务写入仍须确认、审批与执行复核。
 

diff --git a/frontend/README.md b/frontend/README.md
@@ -1,4 +1,4 @@
-# 青禾售后服务台前端
+# 电商智能售后服务台前端
 
 Vue 3、TypeScript、Pinia、Vue Router 和 Element Plus。
 
